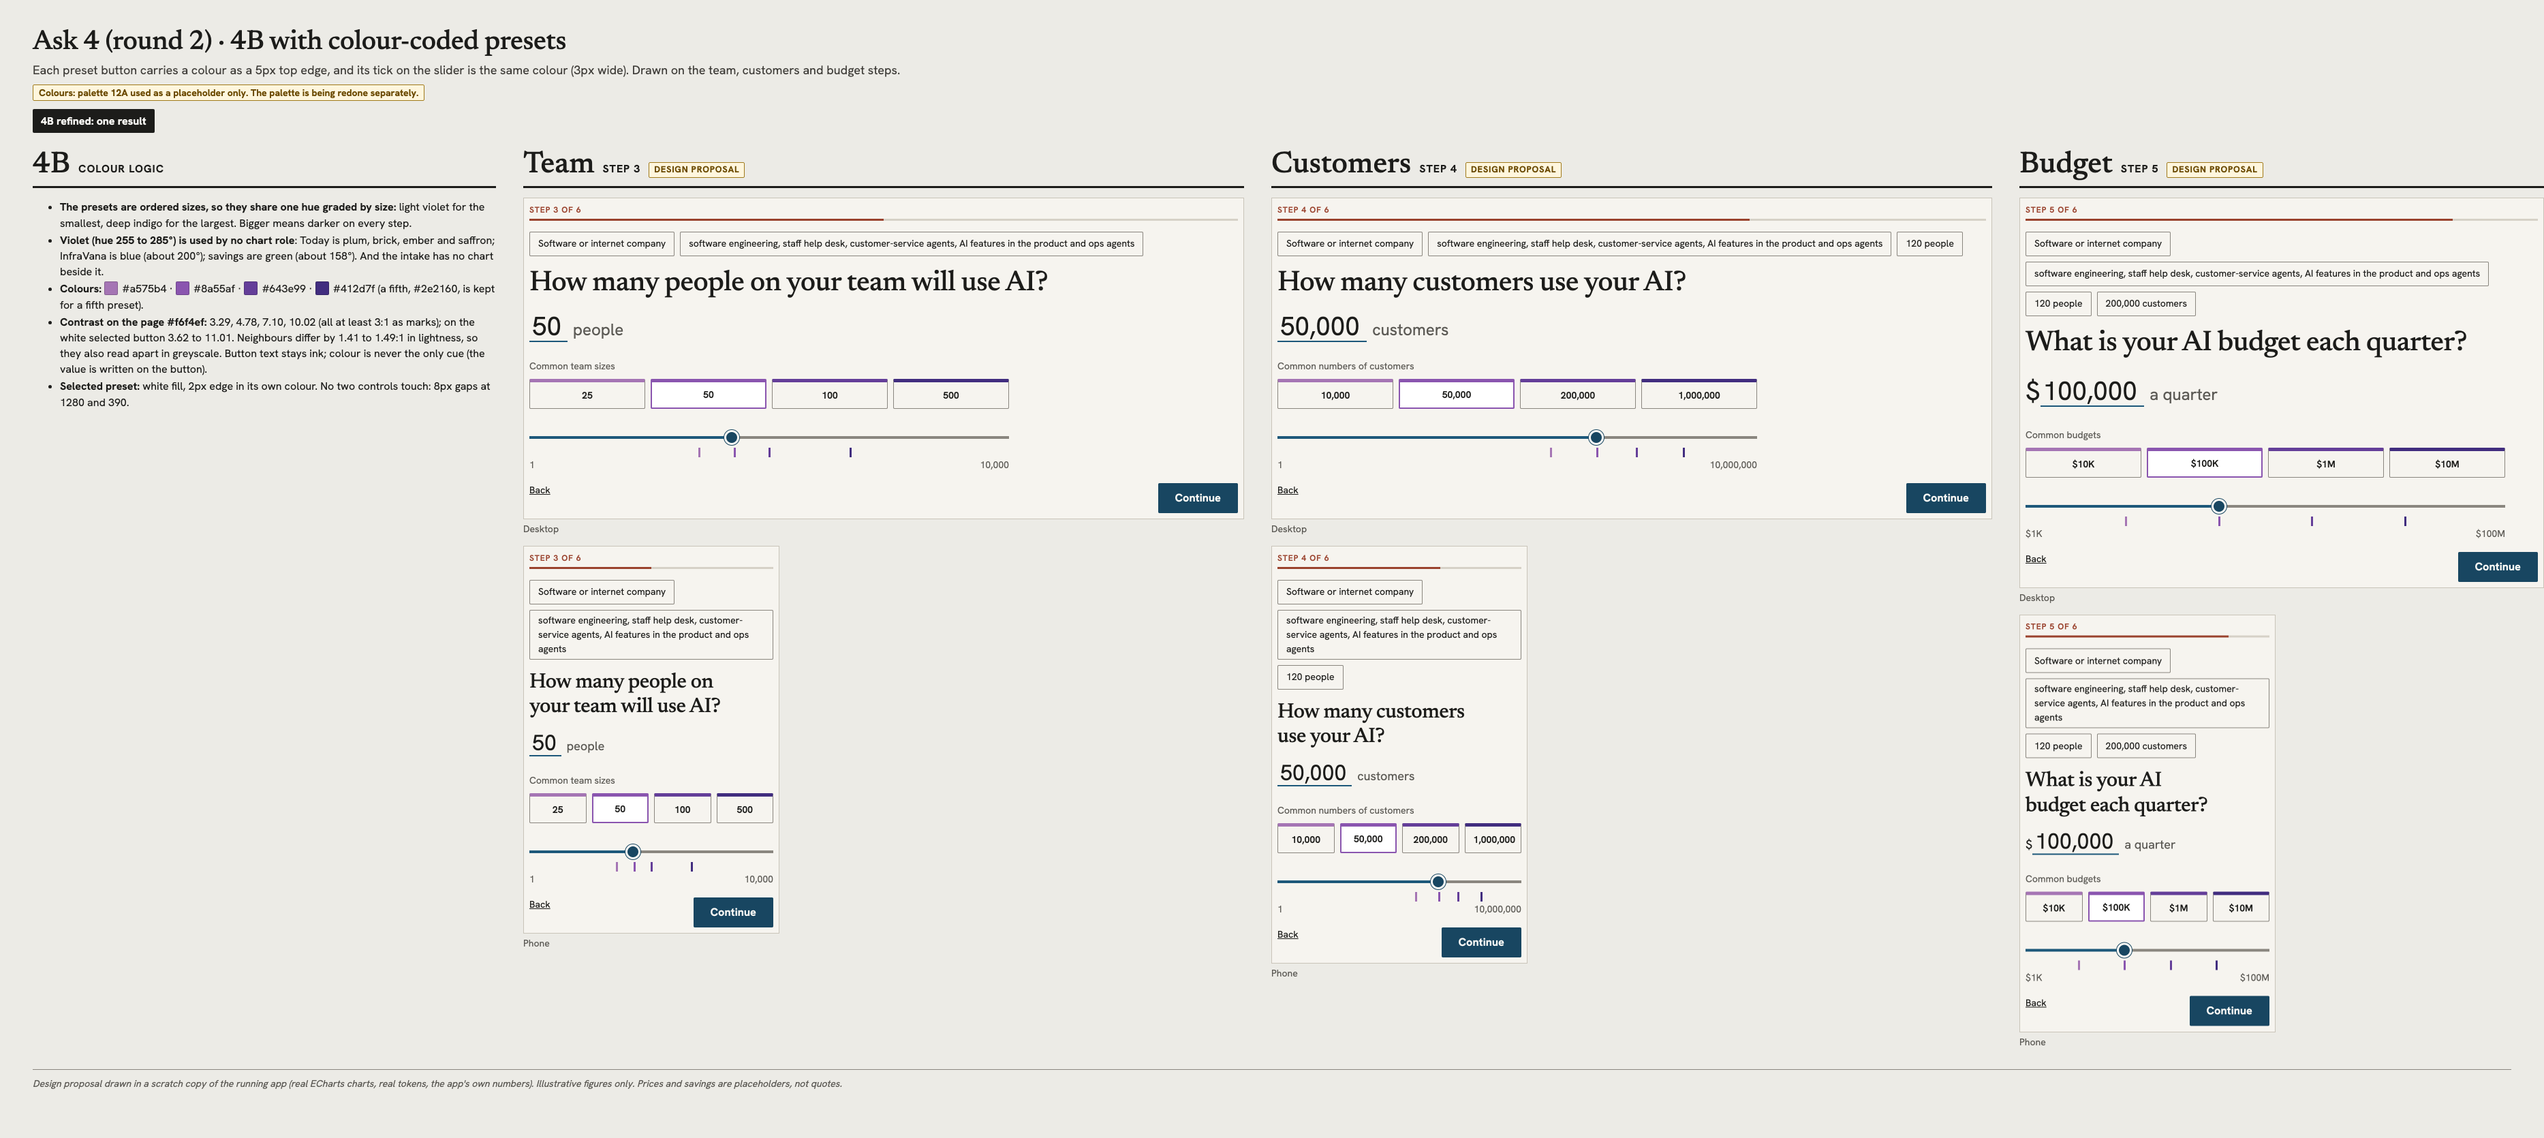
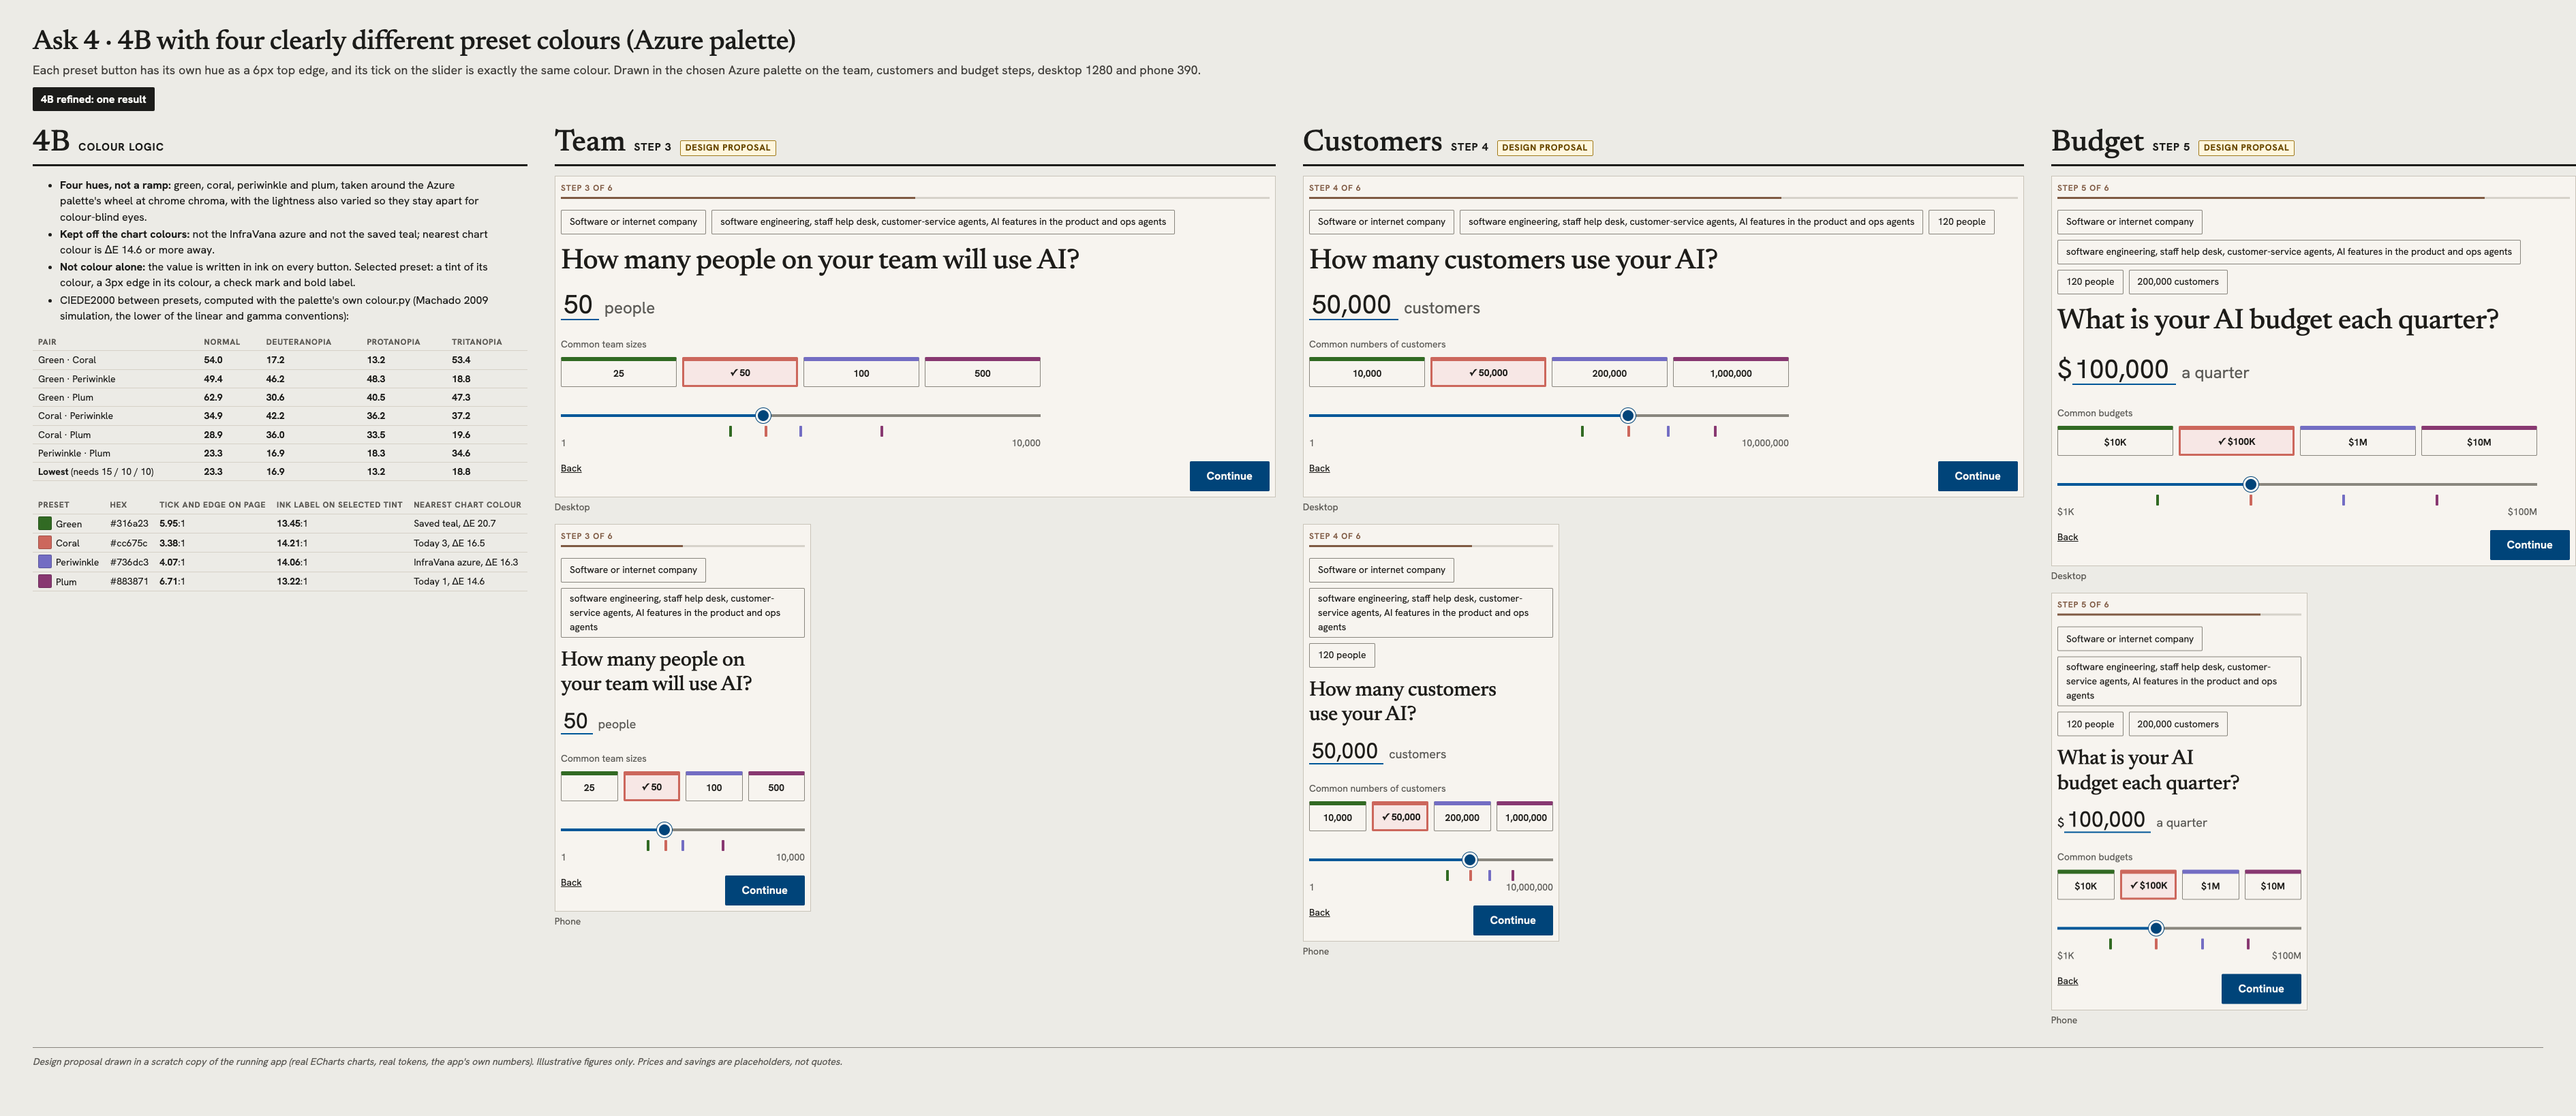
Board 04: four distinct preset hues in the Azure palette
- Green, coral, periwinkle and plum; each tick matches its button
- CIEDE2000 at least 23.3 in normal vision and 13.2 under deuteranopia and protanopia, listed on the board

diff --git a/mock/docs/design-v0.4/README.md b/mock/docs/design-v0.4/README.md
@@ -11,19 +11,16 @@ All figures are invented placeholders, not quotes.
 | Ask | Board | What it shows | Reply |
 |---|---|---|---|
 | 2 | [`02-step-label.png`](02-step-label.png) | Step 1 reads "Step 1", with the rule already at 1/6. From step 2 it reads "Step n of N": 6 for a software company, 5 for an AI-first startup | one result |
-| 4 | [`04-customers.png`](04-customers.png) | 4B with colour-coded presets. Each button has a 5px top edge in its colour, and its tick on the slider matches. Drawn on the team, customers and budget steps, desktop and phone | one result |
+| 4 | [`04-customers.png`](04-customers.png) | 4B with four clearly different preset hues in the Azure palette. Each button has a 6px top edge in its hue, and its tick on the slider matches exactly. Drawn on the team, customers and budget steps, desktop and phone | one result |
 | 5 | [`05-sentence.png`](05-sentence.png) | 5B, balanced. 6 answers → 3 × 2. 5 answers → Company wide, then a row of 3. Phone: a one-column ruled list | one result |
 | 6 | [`06-goal-tabs.png`](06-goal-tabs.png) | Three browser-tab styles. **6B tab bar (recommended)**: four equal tabs with figures. 6A: folder tabs. 6C: Chrome-style tabs | 6A, 6B or 6C |
 | 8 | [`08-chart-tabs.png`](08-chart-tabs.png) | 8C contents column, refined, with ten charts. No numbers; a small glyph of each chart's form. Phone: one picker | one result |
 | 9 | [`09-grid-view.png`](09-grid-view.png) | The chart grid view for 4, 5, 6, 7, 9 and 10 charts, desktop and phone, with the balanced-grid rule written under it | one result |
 | 9 | [`09-other-grids.png`](09-other-grids.png) | The intake lists, answer grid, benefit boxes, fine-tune panel and goal tabs, all following the same rule | one result |
 
-**Colour logic for the ask 4 presets.**
-- **One hue, graded by size.** The presets are ordered sizes, so they use one violet ramp, light for small and dark for large: `#a575b4`, `#8a55af`, `#643e99`, `#412d7f`, with `#2e2160` kept for a fifth preset.
-- **No chart role uses violet.** The intake has no chart beside it, either.
-- **Contrast against the page:** 3.29, 4.78, 7.10 and 10.02.
-- **Greyscale:** neighbouring presets differ by 1.41 to 1.49:1.
-- **Not colour alone:** the value is always written on the button.
+**Colour logic for the ask 4 presets** (redrawn in the Azure palette after you rejected the violet shades):
+- Each preset and its tick on the slider share one of four different hues: green `#316a23`, coral `#cc675c`, periwinkle `#736dc3` and plum `#883871`. None is the InfraVana azure or the saved teal.
+- The pairs are at least 23.3 apart in normal vision and at least 13.2 under deuteranopia and protanopia (CIEDE2000). Every colour is at least 3.38:1 against the page, and the ink label on every button keeps the value readable.
 
 **The balanced-grid rule** (proposed for every grid):
 1. **Every row is full.**
